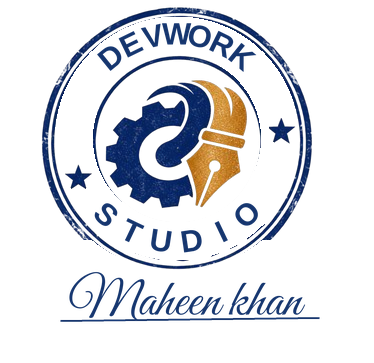
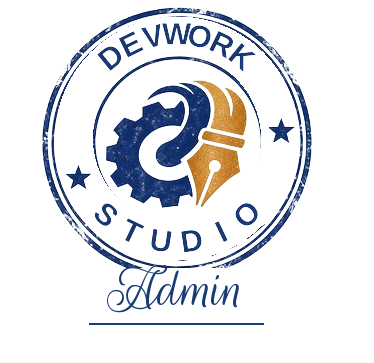
fix: update app.js, admin letters and add stamp image

diff --git a/app/static/js/app.js b/app/static/js/app.js
@@ -2067,7 +2067,7 @@ async function handleLetterInternSelect(selectElem) {
       if (document.getElementById('letter-org-name')) document.getElementById('letter-org-name').value = letter.organization_name || 'DevWork Studio';
       if (document.getElementById('letter-sub-title')) document.getElementById('letter-sub-title').value = letter.sub_title || 'Software Engineering Skill Development Platform';
       if (document.getElementById('letter-auth-by')) document.getElementById('letter-auth-by').value = letter.authorized_by || 'DevWork Studio';
-      if (document.getElementById('letter-signatory')) document.getElementById('letter-signatory').value = letter.signatory_title || 'Maheen khan';
+      if (document.getElementById('letter-signatory')) document.getElementById('letter-signatory').value = letter.signatory_title || 'Admin';
       if (document.getElementById('letter-show-stamp')) document.getElementById('letter-show-stamp').checked = (letter.show_stamp !== false);
       if (document.getElementById('letter-issue-date') && letter.issue_date) document.getElementById('letter-issue-date').value = letter.issue_date;
 
@@ -2092,7 +2092,7 @@ async function handleLetterInternSelect(selectElem) {
       if (document.getElementById('letter-org-name')) document.getElementById('letter-org-name').value = 'DevWork Studio';
       if (document.getElementById('letter-sub-title')) document.getElementById('letter-sub-title').value = 'Software Engineering Skill Development Platform';
       if (document.getElementById('letter-auth-by')) document.getElementById('letter-auth-by').value = 'DevWork Studio';
-      if (document.getElementById('letter-signatory')) document.getElementById('letter-signatory').value = 'Maheen khan';
+      if (document.getElementById('letter-signatory')) document.getElementById('letter-signatory').value = 'Admin';
       if (document.getElementById('letter-show-stamp')) document.getElementById('letter-show-stamp').checked = true;
       if (document.getElementById('letter-issue-date')) document.getElementById('letter-issue-date').value = new Date().toISOString().split('T')[0];
 
@@ -2122,7 +2122,7 @@ function reloadExistingLetterData() {
     if (document.getElementById('letter-org-name')) document.getElementById('letter-org-name').value = l.organization_name || 'DevWork Studio';
     if (document.getElementById('letter-sub-title')) document.getElementById('letter-sub-title').value = l.sub_title || 'Software Engineering Skill Development Platform';
     if (document.getElementById('letter-auth-by')) document.getElementById('letter-auth-by').value = l.authorized_by || 'DevWork Studio';
-    if (document.getElementById('letter-signatory')) document.getElementById('letter-signatory').value = l.signatory_title || 'Maheen khan';
+    if (document.getElementById('letter-signatory')) document.getElementById('letter-signatory').value = l.signatory_title || 'Admin';
     if (document.getElementById('letter-show-stamp')) document.getElementById('letter-show-stamp').checked = (l.show_stamp !== false);
     if (document.getElementById('letter-issue-date') && l.issue_date) document.getElementById('letter-issue-date').value = l.issue_date;
     
@@ -2170,7 +2170,7 @@ function previewCurrentFormCertificate() {
     projects_detail: document.getElementById('letter-projects')?.value.trim() || '',
     commendation_text: remarks || `We commend ${internName} for dedication, creativity, and technical acumen demonstrated throughout the program. We wish continued success in all future endeavors .`,
     authorized_by: document.getElementById('letter-auth-by')?.value.trim() || 'DevWork Studio',
-    signatory_title: document.getElementById('letter-signatory')?.value.trim() || 'Maheen khan',
+    signatory_title: document.getElementById('letter-signatory')?.value.trim() || 'Admin',
     show_stamp: document.getElementById('letter-show-stamp')?.checked ?? true,
     issue_date: document.getElementById('letter-issue-date')?.value || new Date().toISOString().split('T')[0],
     title: 'Certificate of Completion'
@@ -2202,7 +2202,7 @@ async function openEditLetterModal(letter) {
   if (document.getElementById('letter-org-name')) document.getElementById('letter-org-name').value = letter.organization_name || 'DevWork Studio';
   if (document.getElementById('letter-sub-title')) document.getElementById('letter-sub-title').value = letter.sub_title || 'Software Engineering Skill Development Platform';
   if (document.getElementById('letter-auth-by')) document.getElementById('letter-auth-by').value = letter.authorized_by || 'DevWork Studio';
-  if (document.getElementById('letter-signatory')) document.getElementById('letter-signatory').value = letter.signatory_title || 'Maheen khan';
+  if (document.getElementById('letter-signatory')) document.getElementById('letter-signatory').value = letter.signatory_title || 'Admin';
   if (document.getElementById('letter-show-stamp')) document.getElementById('letter-show-stamp').checked = (letter.show_stamp !== false);
   if (document.getElementById('letter-issue-date') && letter.issue_date) document.getElementById('letter-issue-date').value = letter.issue_date;
 
@@ -2278,7 +2278,7 @@ async function handleIssueLetter(e) {
   const orgName = document.getElementById('letter-org-name')?.value.trim() || 'DevWork Studio';
   const subTitle = document.getElementById('letter-sub-title')?.value.trim() || 'Software Engineering Skill Development Platform';
   const authBy = document.getElementById('letter-auth-by')?.value.trim() || 'DevWork Studio';
-  const signatoryTitle = document.getElementById('letter-signatory')?.value.trim() || 'Maheen khan';
+  const signatoryTitle = document.getElementById('letter-signatory')?.value.trim() || 'Admin';
   const showStamp = document.getElementById('letter-show-stamp')?.checked ?? true;
   const issueDateVal = document.getElementById('letter-issue-date')?.value || '';
 
@@ -2519,7 +2519,7 @@ function openPreviewCertificate(letter) {
     commendationHtml = `<span style="color:#1d4ed8 !important; font-weight:800 !important; margin-right:0.35rem; display:inline;">FORMAL COMMENDATION:</span> ${escapeHtml(rawComm)}`;
   }
   const authBy = escapeHtml(letter.authorized_by || 'DevWork Studio');
-  const signatory = escapeHtml(letter.signatory_title || 'Admin Maheen Khan');
+  const signatory = escapeHtml(letter.signatory_title || 'Admin');
   const showStamp = (letter.show_stamp !== false);
 
   container.innerHTML = `

diff --git a/app/templates/admin_letters.html b/app/templates/admin_letters.html
@@ -422,7 +422,7 @@
               </div>
               <div class="form-group" style="margin-bottom: 0;">
                 <label for="letter-signatory" style="font-size: 0.8rem;">Signatory Title / Name</label>
-                <input type="text" id="letter-signatory" value="Maheen khan" placeholder="Maheen khan">
+                <input type="text" id="letter-signatory" value="Admin" placeholder="Admin">
               </div>
             </div>
             <div style="display: flex; align-items: center; gap: 0.5rem; margin-top: 0.25rem;">
@@ -886,7 +886,7 @@
           if (document.getElementById('letter-org-name')) document.getElementById('letter-org-name').value = letter.organization_name || 'DevWork Studio';
           if (document.getElementById('letter-sub-title')) document.getElementById('letter-sub-title').value = letter.sub_title || 'Software Engineering Skill Development Platform';
           if (document.getElementById('letter-auth-by')) document.getElementById('letter-auth-by').value = letter.authorized_by || 'DevWork Studio';
-          if (document.getElementById('letter-signatory')) document.getElementById('letter-signatory').value = letter.signatory_title || 'Maheen khan';
+          if (document.getElementById('letter-signatory')) document.getElementById('letter-signatory').value = letter.signatory_title || 'Admin';
           if (document.getElementById('letter-show-stamp')) document.getElementById('letter-show-stamp').checked = (letter.show_stamp !== false);
           if (document.getElementById('letter-issue-date') && letter.issue_date) document.getElementById('letter-issue-date').value = letter.issue_date;
 
@@ -929,7 +929,7 @@
         if (document.getElementById('letter-org-name')) document.getElementById('letter-org-name').value = l.organization_name || 'DevWork Studio';
         if (document.getElementById('letter-sub-title')) document.getElementById('letter-sub-title').value = l.sub_title || 'Software Engineering Skill Development Platform';
         if (document.getElementById('letter-auth-by')) document.getElementById('letter-auth-by').value = l.authorized_by || 'DevWork Studio';
-        if (document.getElementById('letter-signatory')) document.getElementById('letter-signatory').value = l.signatory_title || 'Maheen khan';
+        if (document.getElementById('letter-signatory')) document.getElementById('letter-signatory').value = l.signatory_title || 'Admin';
         if (document.getElementById('letter-show-stamp')) document.getElementById('letter-show-stamp').checked = (l.show_stamp !== false);
         if (document.getElementById('letter-issue-date') && l.issue_date) document.getElementById('letter-issue-date').value = l.issue_date;
         
@@ -976,7 +976,7 @@
       if (document.getElementById('letter-org-name')) document.getElementById('letter-org-name').value = letter.organization_name || 'DevWork Studio';
       if (document.getElementById('letter-sub-title')) document.getElementById('letter-sub-title').value = letter.sub_title || 'Software Engineering Skill Development Platform';
       if (document.getElementById('letter-auth-by')) document.getElementById('letter-auth-by').value = letter.authorized_by || 'DevWork Studio';
-      if (document.getElementById('letter-signatory')) document.getElementById('letter-signatory').value = letter.signatory_title || 'Maheen khan';
+      if (document.getElementById('letter-signatory')) document.getElementById('letter-signatory').value = letter.signatory_title || 'Admin';
       if (document.getElementById('letter-show-stamp')) document.getElementById('letter-show-stamp').checked = (letter.show_stamp !== false);
       if (document.getElementById('letter-issue-date') && letter.issue_date) document.getElementById('letter-issue-date').value = letter.issue_date;
 
@@ -1029,7 +1029,7 @@
         organization_name: document.getElementById('letter-org-name')?.value.trim() || 'DevWork Studio',
         sub_title: document.getElementById('letter-sub-title')?.value.trim() || 'Software Engineering Skill Development Platform',
         authorized_by: document.getElementById('letter-auth-by')?.value.trim() || 'DevWork Studio',
-        signatory_title: document.getElementById('letter-signatory')?.value.trim() || 'Maheen khan',
+        signatory_title: document.getElementById('letter-signatory')?.value.trim() || 'Admin',
         show_stamp: document.getElementById('letter-show-stamp')?.checked ?? true,
         issue_date: document.getElementById('letter-issue-date')?.value || new Date().toISOString().split('T')[0],
         title: 'Certificate of Completion'
@@ -1082,7 +1082,7 @@
       const orgName = document.getElementById('letter-org-name')?.value.trim() || 'DevWork Studio';
       const subTitle = document.getElementById('letter-sub-title')?.value.trim() || 'Software Engineering Skill Development Platform';
       const authBy = document.getElementById('letter-auth-by')?.value.trim() || 'DevWork Studio';
-      const signatoryTitle = document.getElementById('letter-signatory')?.value.trim() || 'Maheen khan';
+      const signatoryTitle = document.getElementById('letter-signatory')?.value.trim() || 'Admin';
       const showStamp = document.getElementById('letter-show-stamp')?.checked ?? true;
       const issueDateVal = document.getElementById('letter-issue-date')?.value || '';
 
@@ -1213,7 +1213,7 @@
           organization_name: 'DevWork Studio',
           sub_title: 'Software Engineering Skill Development Platform',
           authorized_by: 'DevWork Studio',
-          signatory_title: 'Maheen khan',
+          signatory_title: 'Admin',
           show_stamp: true,
           duration_text: 'TWO Months',
           projects_detail: '',
@@ -1237,7 +1237,7 @@
       const projects = escapeHtml(rawProjects);
       const commendation = escapeHtml(letter.commendation_text || letter.remarks || `We commend ${name} for dedication, creativity, and technical acumen demonstrated throughout the program. We wish continued success in all future endeavors .`);
       const authBy = escapeHtml(letter.authorized_by || 'DevWork Studio');
-      const signatory = escapeHtml(letter.signatory_title || 'Admin Maheen Khan');
+      const signatory = escapeHtml(letter.signatory_title || 'Admin');
       const showStamp = (letter.show_stamp !== false);
 
       container.innerHTML = `

diff --git a/app/templates/letter_print.html b/app/templates/letter_print.html
@@ -1180,7 +1180,7 @@
       <div class="draggable-stamp-box" id="stamp-draggable-container" style="{% if letter.stamp_x is not none %}left: {{ letter.stamp_x }}px;{% else %}left: 50%; transform: translateX(-50%);{% endif %} top: {{ letter.stamp_y if letter.stamp_y is not none else 715 }}px; display: {{ 'flex' if (letter.show_stamp or letter.show_stamp is none) else 'none' }};">
         <div class="drag-handle-hint no-print">✋ Drag anywhere</div>
         <img src="{{ letter.custom_stamp_url or '/static/img/fsz_official_stamp.png' }}" alt="Official Stamp" class="cert-stamp-img" id="disp-stamp-img">
-        <div class="cert-signatory-title inline-editable" id="disp-signatory" contenteditable="true" spellcheck="false" title="Click to edit Signatory Name">{{ letter.signatory_title or 'Admin Maheen Khan' }}</div>
+        <div class="cert-signatory-title inline-editable" id="disp-signatory" contenteditable="true" spellcheck="false" title="Click to edit Signatory Name">{{ letter.signatory_title or 'Admin' }}</div>
         <div class="cert-signatory-designation">Authorized Signatory</div>
       </div>
 
@@ -1246,7 +1246,7 @@
         <div class="corp-prefooter-row">
           <div class="corp-footer-right-block" id="footer-static-signatory" style="display: {{ 'flex' if (letter.show_stamp or letter.show_stamp is none) and letter.stamp_x is none else 'none' }}; flex-direction: column; align-items: center; justify-content: center; z-index: 20; min-width: 170px;">
             <img src="{{ letter.custom_stamp_url or '/static/img/fsz_official_stamp.png' }}" alt="Official Stamp" class="cert-stamp-img" style="width: 125px; height: 125px; object-fit: contain; pointer-events: none;">
-            <div class="cert-signatory-title inline-editable" id="disp-signatory-static" contenteditable="true" spellcheck="false" title="Click to edit Signatory Name" style="font-size: 0.98rem; font-weight: 800; color: #172554; margin-top: -6px; font-family: Georgia, cursive, serif;">{{ letter.signatory_title or 'Admin Maheen Khan' }}</div>
+            <div class="cert-signatory-title inline-editable" id="disp-signatory-static" contenteditable="true" spellcheck="false" title="Click to edit Signatory Name" style="font-size: 0.98rem; font-weight: 800; color: #172554; margin-top: -6px; font-family: Georgia, cursive, serif;">{{ letter.signatory_title or 'Admin' }}</div>
             <div class="cert-signatory-designation" style="font-size: 0.72rem; font-weight: 700; color: #1e40af; letter-spacing: 0.8px; text-transform: uppercase; margin-top: 2px;">Authorized Signatory</div>
           </div>
         </div>
@@ -1388,7 +1388,7 @@
 
       <div class="drawer-form-group">
         <label>Signatory Title / Name</label>
-        <input type="text" class="drawer-input" id="edit-signatory" value="{{ letter.signatory_title or 'Admin Maheen Khan' }}" oninput="syncDrawerToPage()">
+        <input type="text" class="drawer-input" id="edit-signatory" value="{{ letter.signatory_title or 'Admin' }}" oninput="syncDrawerToPage()">
       </div>
 
       <div class="drawer-form-group" style="display: flex; align-items: center; justify-content: space-between; gap: 0.5rem;">

diff --git a/app/templates/index.html b/app/templates/index.html
@@ -1409,7 +1409,7 @@
               </div>
               <div class="form-group" style="margin-bottom: 0;">
                 <label for="letter-signatory" style="font-size: 0.8rem;">Signatory Title / Name</label>
-                <input type="text" id="letter-signatory" value="Maheen khan" placeholder="Maheen khan">
+                <input type="text" id="letter-signatory" value="Admin" placeholder="Admin">
               </div>
             </div>
             <div style="display: flex; align-items: center; gap: 0.5rem; margin-top: 0.25rem;">

diff --git a/app/templates/letter_verify.html b/app/templates/letter_verify.html
@@ -645,7 +645,7 @@
 
           <div class="detail-item">
             <span class="detail-label">Authorized Signatory</span>
-            <span class="detail-value">{{ letter.signatory_title or 'Maheen khan' }}</span>
+            <span class="detail-value">{{ letter.signatory_title or 'Admin' }}</span>
           </div>
 
           <div class="detail-item">

diff --git a/app/models.py b/app/models.py
@@ -293,7 +293,7 @@ class InternshipLetter(db.Model):
     sub_title = db.Column(db.String(150), default='Software Engineering Skill Development Platform', nullable=True)
     commendation_text = db.Column(db.Text, nullable=True)
     authorized_by = db.Column(db.String(150), default='DevWork Studio', nullable=True)
-    signatory_title = db.Column(db.String(150), default='Maheen khan', nullable=True)
+    signatory_title = db.Column(db.String(150), default='Admin', nullable=True)
     show_stamp = db.Column(db.Boolean, default=True, nullable=True)
     custom_logo_url = db.Column(db.String(300), nullable=True)
     logo_position = db.Column(db.String(50), default='right', nullable=True)  # 'left', 'center', 'right'
@@ -332,7 +332,7 @@ class InternshipLetter(db.Model):
             'sub_title': self.sub_title or 'Software Engineering Skill Development Platform',
             'commendation_text': self.commendation_text,
             'authorized_by': self.authorized_by or 'DevWork Studio',
-            'signatory_title': self.signatory_title or 'Maheen khan',
+            'signatory_title': self.signatory_title or 'Admin',
             'show_stamp': True if self.show_stamp is None else self.show_stamp,
             'custom_logo_url': self.custom_logo_url,
             'logo_position': self.logo_position or 'right',

diff --git a/app/routes/letters.py b/app/routes/letters.py
@@ -121,7 +121,7 @@ def issue_letter(current_user):
     sub_title = (data.get('sub_title') or 'Software Engineering Skill Development Platform').strip()
     commendation_text = (data.get('commendation_text') or '').strip() or None
     authorized_by = (data.get('authorized_by') or 'DevWork Studio').strip()
-    signatory_title = (data.get('signatory_title') or 'Maheen khan').strip()
+    signatory_title = (data.get('signatory_title') or 'Admin').strip()
     show_stamp = str(data.get('show_stamp', 'true')).lower() in ('true', '1', 'yes')
     custom_logo_url = (data.get('custom_logo_url') or '').strip() or None
     logo_position = (data.get('logo_position') or 'right').strip().lower()
@@ -432,7 +432,7 @@ def update_letter(current_user, letter_id):
     if 'authorized_by' in data:
         letter.authorized_by = (data.get('authorized_by') or 'DevWork Studio').strip()
     if 'signatory_title' in data:
-        letter.signatory_title = (data.get('signatory_title') or 'Maheen khan').strip()
+        letter.signatory_title = (data.get('signatory_title') or 'Admin').strip()
     if 'show_stamp' in data:
         letter.show_stamp = str(data.get('show_stamp', 'true')).lower() in ('true', '1', 'yes')
     if 'custom_logo_url' in data:
